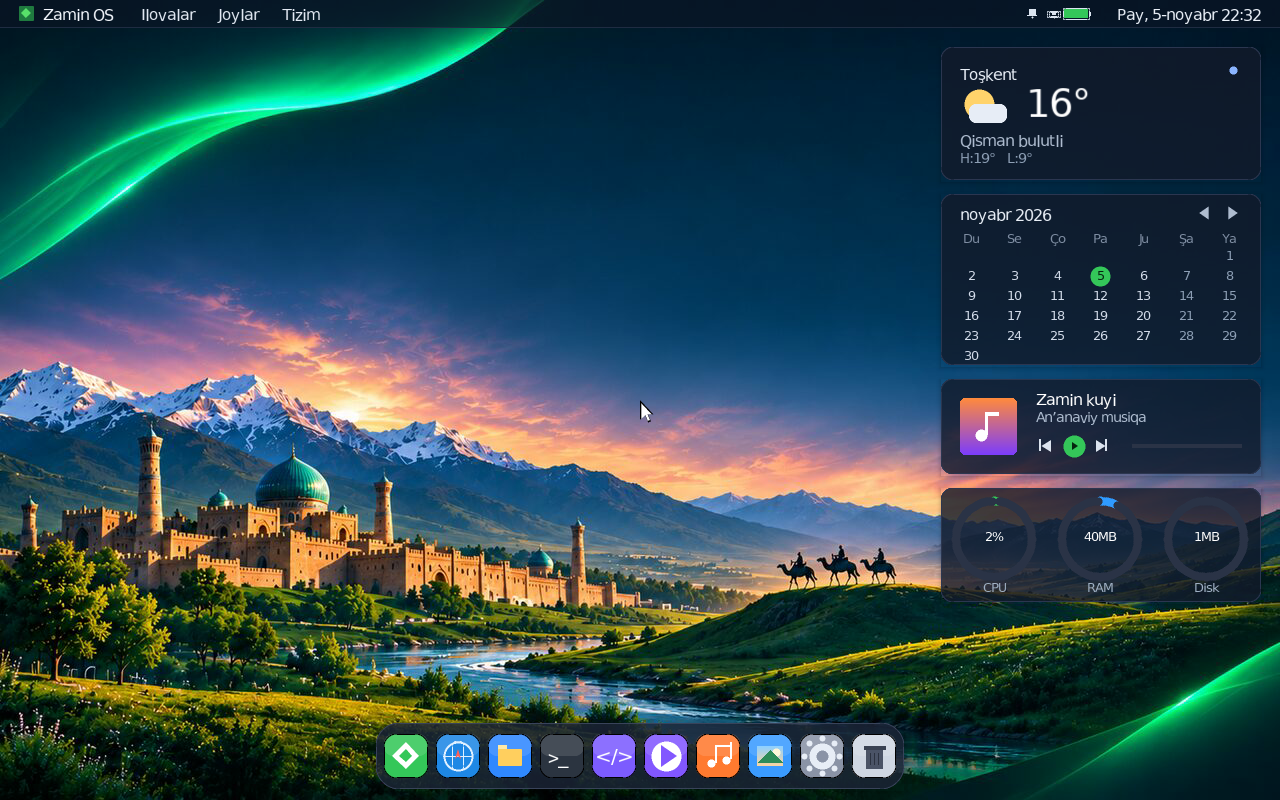
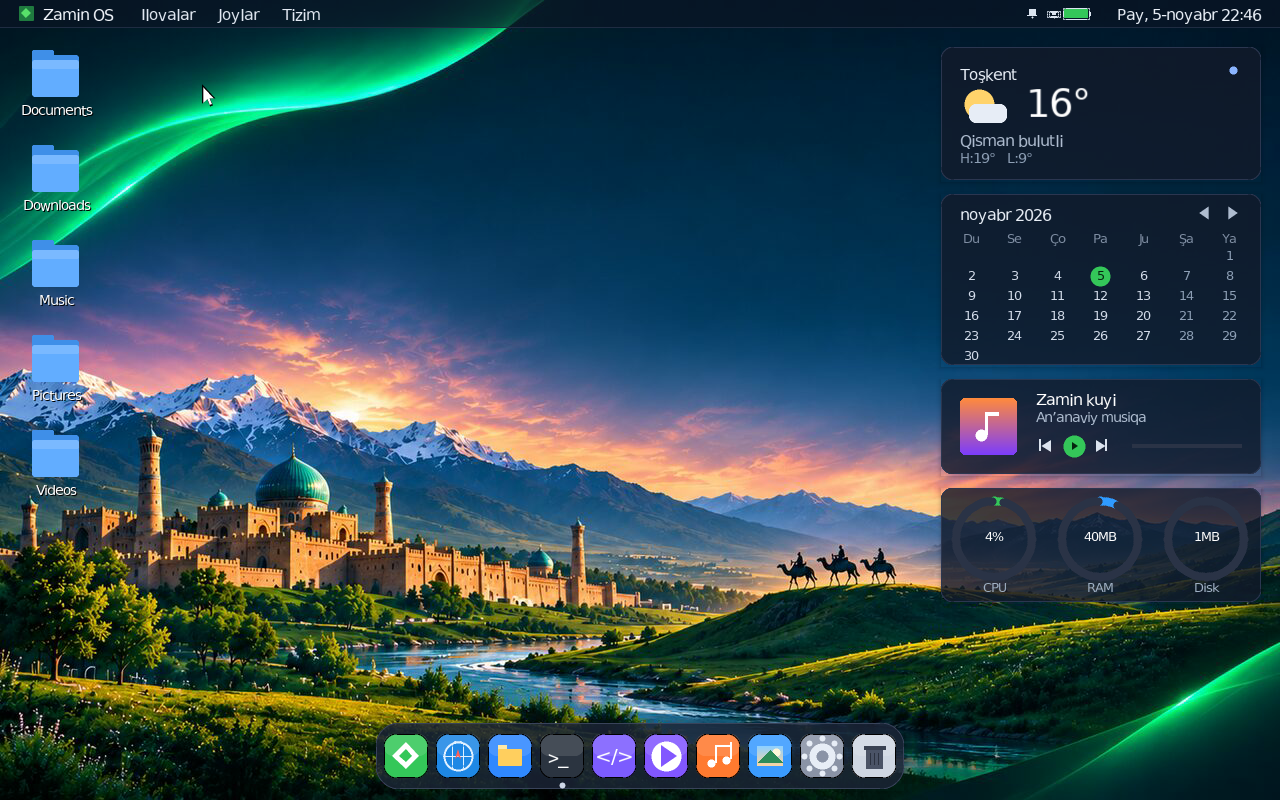
Versiya 0.0.15: hujjatlar, README va versiya raqami
Oldingi commit (806c76b) da shell zanjiridagi xato tufayli faqat kod
yuborilgan edi: docs skrinshotlari, README boʻlimi va versiya raqami
bu commit bilan qöşiladi.

- Cargo.toml: 0.0.14 → 0.0.15.
- README: "Ish stoli ikonalari va animatsiyalar" boʻlimi, versiya tarixi.
- docs/desktop.png (ikonalar bilan), docs/desktop-icons.png,
  docs/animation.jpg (sekinlaştirilgan animatsiya kadrlari).

Claude-Session: https://claude.ai/code/session_01XP37bWy7eR4Ndmx7yhzNeM

diff --git a/README.md b/README.md
@@ -41,6 +41,21 @@ tomonda vidjetlar — ob-havo, kalendar, musiqa pleeri va tizim halqalari
 - Dokdagi ikona: ilova oçiq bölsa (yashirilgan ham) — oynani old planga qaytaradi,
   bölmasa — yangi oçadi. Ostidagi nuqta oçiq ilovani bildiradi.
 
+### Ish stoli ikonalari va animatsiyalar
+
+<img src="docs/desktop-icons.png" width="160" align="left" style="margin-right:12px">
+
+Ish stolining çap tomonida uy papkalari (Hujjatlar, Yuklamalar, Musiqa, Rasmlar,
+Videolar) ikonalari: **bir marta bosiş — tanlaş**, **ikki marta — Fayllarda oçiş**.
+
+Oynalar **animatsiya** bilan: yangi oyna dok ikonasidan kattalaşib çiqadi, yashirilganda
+dokka "uçib" kiradi, kattalaştiriş/qaytariş silliq oʻtadi (easeOutCubic, 230 ms).
+Quyidagi kadrlar animatsiya sekinlaştirilgan holda olingan:
+
+<br clear="left">
+
+![Animatsiya kadrlari](docs/animation.jpg)
+
 ### Qulf ekrani
 
 ![Qulf ekrani](docs/lockscreen.png)
@@ -548,7 +563,7 @@ Tizim çaqiruvlari fuzz-sinovi (15000 tasodifiy çaqiruv) har yuklanişda ötadi
 
 ## Versiyalaş
 
-Joriy versiya: **0.0.14**. Versiya har bir özgarişda emas, faqat işlaydigan
+Joriy versiya: **0.0.15**. Versiya har bir özgarişda emas, faqat işlaydigan
 bosqiç (etap) yakunlanganda kötariladi.
 - 0.0.2 — toʻliq grafik muhit (kiriş, oynada haqiqiy EL0 terminal, ilovalar)
   va backend mustahkamlaş (KASLR, FAT yoziş, X.509 tahlili).
@@ -580,5 +595,7 @@ bosqiç (etap) yakunlanganda kötariladi.
   oʻlçovlardan; yangi qulf ekrani (fon rasmi + soat).
 - 0.0.14 — **Oyna boshqaruvi**: sariq — dokka yashiriş, yashil — kattalashtiriş/qaytariş,
   hover belgilari (× − +), burçakdan ölçamni özgartiriş, dok ikonasi oçiq oynani qaytaradi.
+- 0.0.15 — **Ish stoli ikonalari** (uy papkalari; bir marta — tanlaş, ikki marta — oçiş)
+  va **oyna animatsiyalari** (oçiliş, yashiriş, qaytariş, kattalaştiriş).
 
 Versiya `Cargo.toml` da saqlanadi va yadro işga tuşganda ekranga çiqadi.
